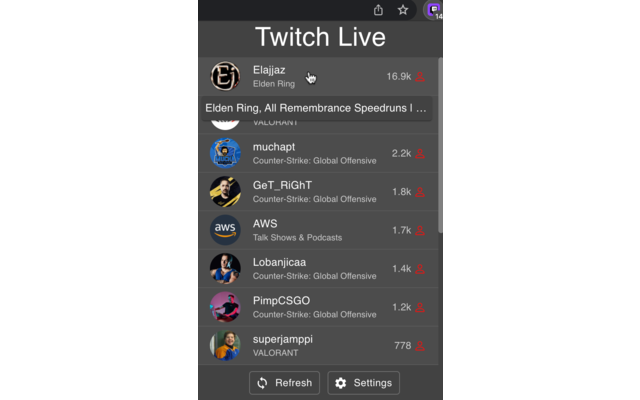
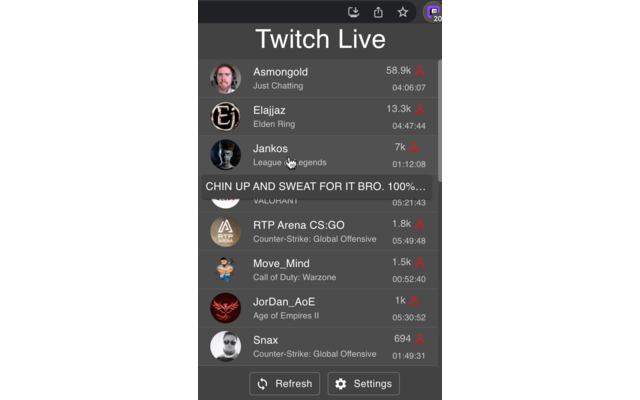
Update version and add new change log

diff --git a/src/infrastructure/background/onInstalled.ts b/src/infrastructure/background/onInstalled.ts
@@ -4,9 +4,9 @@ import changelogs from '../../changelogsMapping.json';
 export const processOnInstallEvents = async () => {
     const { installType } = await browser.management.getSelf();
 
-    if (installType === 'development') {
-        return;
-    }
+    // if (installType === 'development') {
+    //     return;
+    // }
 
     const { version } = browser.runtime.getManifest();
 

diff --git a/CHANGELOG.md b/CHANGELOG.md
@@ -1,26 +1,31 @@
 # Changelog
 
+## 3.1.0 (April 5th, 2021)
+
+### Functionalities:
+- Adds how longe a stream has been live
+
 ## 3.0.3 (March 15, 2021)
 
-### Fixes and Functionality:
+### Fixes:
 
 - Update extension description
 
 ## 3.0.2 (March 14, 2021)
 
-### Fixes and Functionality:
+### Functionalities:
 
 - Adds a badge icon with the current number of livestreams
 
 ## 3.0.1 (July 14, 2021)
 
-### Fixes and Functionality:
+### Fixes:
 
 - Fix extension name
 
 ## 3.0.0 (July 14, 2021)
 
-### Fixes and Functionality:
+### Functionalities:
 
 - Use of new Twitch endpoint Get Live Followed Streams
 - Use specific scopes to call the new endpoint
@@ -29,13 +34,13 @@
 
 ## 2.3.0 (April 30, 2021)
 
-### Fixes and Functionality:
+### Functionalities:
 
 - Display title on mouse over a stream 
 
 ## 2.2.0 (March 1, 2021)
 
-### Fixes and Functionality:
+### Functionalities:
 
 - Added "Just went live" notifications feature
 - Added background file to get token and set alarm
@@ -43,7 +48,7 @@
 
 ## 2.1.2 (January 6, 2021)
 
-### Fixes and Functionality:
+### Fixes:
 
 - Upgrade **_axios_** version to fix vulnerability
 - Upgrade **_react-scripts_** version to fix vulnerability
@@ -51,13 +56,13 @@
 
 ## 2.1.1 (November 13, 2020)
 
-### Fixes and Functionality:
+### Functionalities:
 
 - Removed "storage" permission from manifest.json
 
 ## 2.1.0 (November 11, 2020)
 
-### Fixes and Functionality:
+### Functionalities:
 
 - Added Twitch authentication using OAuth2
 - Migrate all the api calls to the new Twitch API
@@ -67,14 +72,14 @@
 
 ## 2.0.0 (November 5, 2020)
 
-### Fixes and Functionality:
+### Functionalities:
 
-- Added a options page to manually add your favorite followers
+- Added an options' page to manually add your favorite followers
 - Removed the extension options page
 
 ## 1.0.0 (August 11, 2020)
 
-### Fixes and Functionality:
+### Functionalities:
 
 - List the favorite streamers that are live
 - Created an options html page to add/remove favorite streamers

diff --git a/changelogs/3_1_0.md b/changelogs/3_1_0.md
@@ -1,0 +1,5 @@
+# Twitch Live Extension v3.1.0
+
+**_Twitch Live Extension_ 3.1.0** comes with a new feature! You can now see how long the stream has been live when you open the extension.
+
+![Extension](../assets/extension_hover_icon_changelog.png "Extension")
